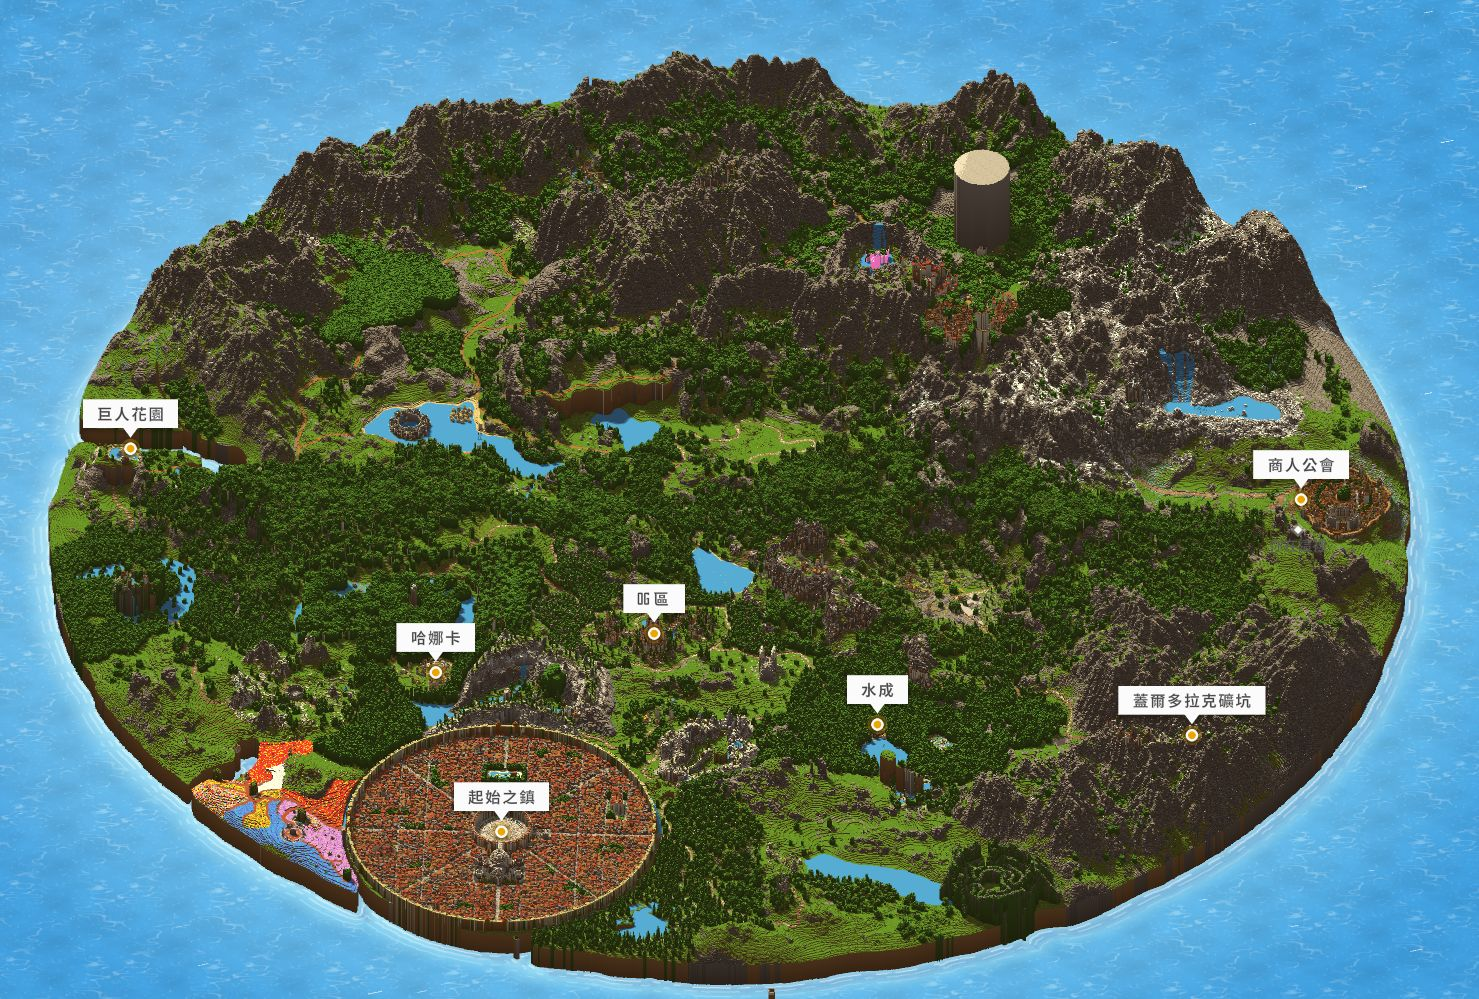
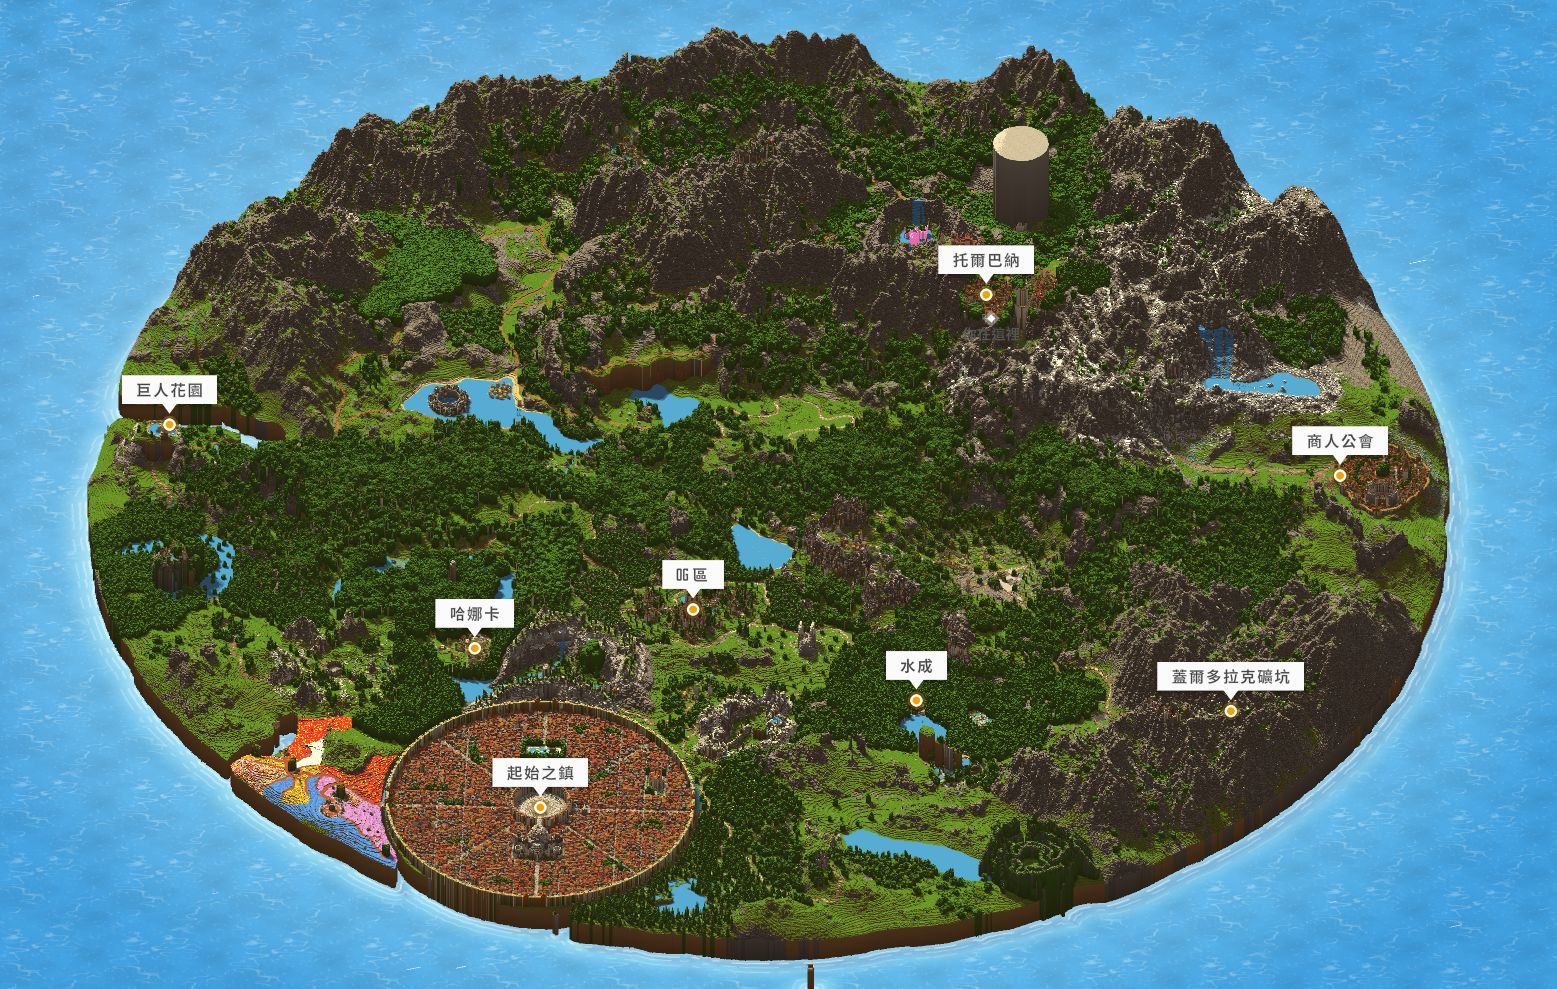
掉落圖鑑：第 1 層地圖確認托爾巴納位置
Claude-Session: https://claude.ai/code/session_01QYRpkEZHKPxTgtwmvxKvrG

diff --git a/sao-bestiary/index.html b/sao-bestiary/index.html
@@ -296,16 +296,16 @@ function renderList() {
 // kind: game = 遊戲地圖上原本就有的地名；sure = 比較確定；guess = 推測
 const MAPS = {
   1: {img: 'map-f1.jpg', pins: [
-    {x: 33.8, y: 83.1, name: '起始之鎮', kind: 'game', regions: ['起始之鎮', '野豬區'], note: '出生城鎮。城外是野豬區，腐化野豬和 Boss Pumba 都在這附近。'},
-    {x: 29.4, y: 67.3, name: '哈娜卡', kind: 'game', regions: ['Hanaka'], note: '名字和位置都很像動畫裡的「霍倫卡村」（桐人接任務、刷豬籠草換劍的村子）。'},
-    {x: 59.3, y: 72.4, name: '水成', kind: 'game', regions: ['Mizunari 原野'], note: '應該就是 Mizunari 原野，會主動攻擊的豬籠草在這裡，0.5% 掉豬籠草之花。'},
-    {x: 80.5, y: 73.5, name: '蓋爾多拉克礦坑', kind: 'game', regions: ['Geldorak 礦坑', 'Geldorak 礦坑地城'], note: 'Geldorak 礦坑和礦坑地城。'},
-    {x: 87.9, y: 49.8, name: '商人公會', kind: 'game', regions: [], note: '遊戲地圖標示的商人公會（圓形城牆城鎮）。圖鑑裡還沒有對應的怪物。'},
-    {x: 8.8, y: 44.8, name: '巨人花園', kind: 'game', regions: [], note: '圖鑑裡還沒有對應的怪物。'},
-    {x: 44.2, y: 63.4, name: '吆區', kind: 'game', regions: [], note: '圖鑑裡還沒有對應的怪物。'},
-    {x: 66.3, y: 19.5, name: '迷宮塔', kind: 'sure', regions: ['狗頭人之塔'], note: '第 1 層的迷宮塔，塔頂是樓層 Boss「狗頭人領主 Illfang」，跟動畫一樣。'},
-    {x: 64.2, y: 30.0, name: '托爾巴納', kind: 'guess', regions: ['托爾巴納山脈'], note: '推測：動畫裡托爾巴納是最靠近迷宮塔的城鎮，塔腳下這個紅屋頂聚落最符合（右邊的圓形城鎮已確認是商人公會）。城裡有鐵匠 Emy、皇家鍛造所。也可能只是迷宮入口。'},
-    {x: 79.8, y: 37.0, name: '山鹿雪地', kind: 'guess', regions: ['托爾巴納西北方的雪地區域'], note: '推測：wiki 寫「托爾巴納西北方的雪地」，這片灰白色山地最像雪地，但方位不完全對得上，請到現場確認。山鹿會主動攻擊，75% 掉山鹿皮。'}
+    {x: 34.7, y: 81.5, name: '起始之鎮', kind: 'game', regions: ['起始之鎮', '野豬區'], note: '出生城鎮。城外是野豬區，腐化野豬和 Boss Pumba 都在這附近。'},
+    {x: 30.5, y: 65.5, name: '哈娜卡', kind: 'game', regions: ['Hanaka'], note: '名字和位置都很像動畫裡的「霍倫卡村」（桐人接任務、刷豬籠草換劍的村子）。'},
+    {x: 58.8, y: 70.8, name: '水成', kind: 'game', regions: ['Mizunari 原野'], note: '應該就是 Mizunari 原野，會主動攻擊的豬籠草在這裡，0.5% 掉豬籠草之花。'},
+    {x: 79.1, y: 71.9, name: '蓋爾多拉克礦坑', kind: 'game', regions: ['Geldorak 礦坑', 'Geldorak 礦坑地城'], note: 'Geldorak 礦坑和礦坑地城。'},
+    {x: 86.1, y: 48.1, name: '商人公會', kind: 'game', regions: [], note: '圓形城牆城鎮。圖鑑裡還沒有對應的怪物。'},
+    {x: 10.9, y: 43.0, name: '巨人花園', kind: 'game', regions: [], note: '圖鑑裡還沒有對應的怪物。'},
+    {x: 44.5, y: 61.6, name: '吆區', kind: 'game', regions: [], note: '圖鑑裡還沒有對應的怪物。'},
+    {x: 63.3, y: 29.8, name: '托爾巴納', kind: 'game', regions: ['托爾巴納山脈'], note: '最靠近迷宮塔的城鎮，跟動畫一樣。有鐵匠 Emy、皇家鍛造所，支線 NPC Sentinel Kael、Hunter Lysa 也在這裡。周圍的托爾巴納山脈有山中雄鹿。'},
+    {x: 65.5, y: 17.7, name: '迷宮塔', kind: 'sure', regions: ['狗頭人之塔'], note: '第 1 層的迷宮塔，塔頂是樓層 Boss「狗頭人領主 Illfang」，跟動畫一樣。'},
+    {x: 54.6, y: 19.2, name: '山鹿雪地', kind: 'guess', regions: ['托爾巴納西北方的雪地區域'], note: '推測：照 wiki「托爾巴納西北方」、假設地圖上方是北標在這裡。如果找不到，托爾巴納右下方那片灰白色山地也可能是雪地。山鹿會主動攻擊，75% 掉山鹿皮。'}
   ]}
 };
 
